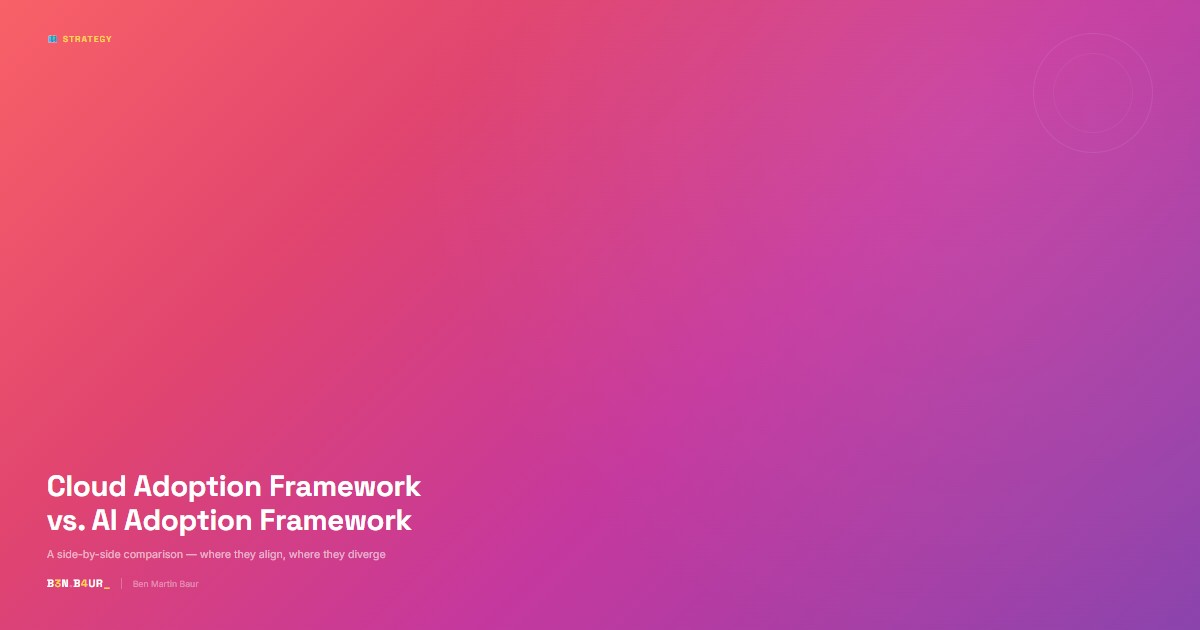
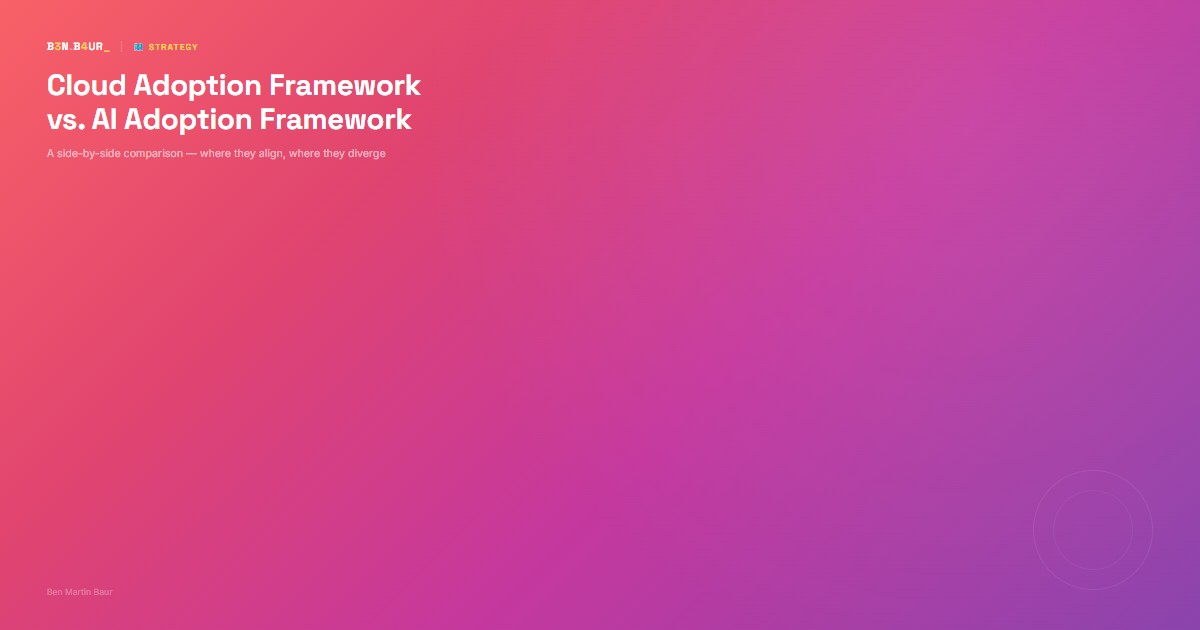
updated featured pictures.

diff --git a/content/projects/chief-of-staff-agents/featured-images.md b/content/projects/chief-of-staff-agents/featured-images.md
@@ -31,22 +31,27 @@ Every post on B3N.B4UR_ gets a branded featured image at **1200×630px** (standa
 
 ```
 ┌─────────────────────────────────────────────┐
-│ 🏗 BUILD (pillar badge, top-left)          │
-│                                             │
-│                         (decorative element │
-│                          top-right, subtle) │
-│                                             │
+│ B3N.B4UR_ | 🏗 BUILD (logo + badge, top)  │
 │                                             │
 │ Post Title                                  │
 │ Line Two If Needed                          │
 │ Subtitle in smaller text, lower opacity     │
-│ B3N.B4UR_ | Ben Martin Baur                │
+│                                             │
+│                                             │
+│                         (decorative element │
+│                          bottom-right)      │
+│                                             │
+│ Ben Martin Baur (bottom-left, subtle)       │
 └─────────────────────────────────────────────┘
 ```
 
-- **Title**: Space Grotesk, 44–52pt bold, white, max 2 lines
-- **Subtitle**: Inter, 16px, white at 45–70% opacity
-- **Logo + name**: Bottom-left, separated by a 1px divider line
+**IMPORTANT: All text content must be in the TOP portion of the image.** The Hugo Stack theme crops featured images to show only the top ~40% as card thumbnails. Title, subtitle, logo, and pillar badge must all be above the midline.
+
+- **Logo + pillar badge**: Top-left, first element, flex row with 1px divider
+- **Title**: Space Grotesk, 44–52pt bold, white, max 2 lines, directly below logo
+- **Subtitle**: Inter, 16px, white at 45–70% opacity, below title
+- **Attribution**: "Ben Martin Baur" bottom-left, 13px, very low opacity (visible on full image only)
+- **Decorative elements**: Bottom-right (visible on full image, won't clutter the card crop)
 - **Padding**: 60px vertical, 70px horizontal
 - **Content area**: max-width 700–750px (left-aligned)
 
@@ -54,9 +59,9 @@ Every post on B3N.B4UR_ gets a branded featured image at **1200×630px** (standa
 
 | Pillar | Decoration |
 |--------|------------|
-| **Build** | Subtle grid overlay (40px squares, ~4% opacity blue lines). Faint terminal commands top-right in JetBrains Mono. `> ssh build@b3n.b4ur_` |
-| **Strategy** | Subtle concentric circles top-right (2px white border, ~5-8% opacity). Radial light bloom at 80% 20% |
-| **Real** | Soft `✦` symbol top-right at ~8% opacity. Radial light bloom at 75% 25% |
+| **Build** | Subtle grid overlay (40px squares, ~4% opacity blue lines). Faint terminal commands **bottom-right** in JetBrains Mono. |
+| **Strategy** | Subtle concentric circles **bottom-right** (2px white border, ~5-8% opacity). Radial light bloom at 80% 20% |
+| **Real** | Soft `✦` symbol **bottom-right** at ~6% opacity. Radial light bloom at 75% 25% |
 
 ---
 
@@ -74,23 +79,23 @@ Create a branded featured image for a blog post using the B3N.B4UR_ visual ident
 
 **Specifications:**
 - Dimensions: 1200×630px
+- CRITICAL: All text (logo, badge, title, subtitle) must be in the TOP HALF of the image. The Hugo Stack theme crops to show only the top ~40% as card thumbnails.
 - Background: Use the pillar gradient:
   - Build: linear-gradient(135deg, #0C1824 0%, #12293D 30%, #1E3A52 60%, #2A4B6A 100%) with subtle 40px grid overlay at 4% opacity
-  - Strategy: linear-gradient(135deg, #F96167 0%, #E04470 30%, #C5389E 60%, #8B44AD 100%) with subtle concentric circles top-right
+  - Strategy: linear-gradient(135deg, #F96167 0%, #E04470 30%, #C5389E 60%, #8B44AD 100%) with subtle concentric circles bottom-right
   - Real: linear-gradient(135deg, #89B4E8 0%, #A8A0E0 30%, #D4A0D0 60%, #E8C0D4 100%) with soft radial light bloom
-- Pillar badge: Top-left, emoji + pillar name, 13px uppercase, letter-spacing .12em
-  - Build colour: #64B5F6
-  - Strategy colour: #FFD54F
-  - Real colour: rgba(255,255,255,.85)
-- Title: Space Grotesk Bold, 44-52px, white, bottom-left, max 2 lines, line-height 1.15
-- Subtitle: Inter 16px, white at 45-70% opacity depending on pillar, below title
-- Logo: "B3N.B4UR_" in Space Grotesk Bold 16px, white, letter-spacing .06em
+- Logo + Pillar badge: TOP-LEFT, first row. Logo "B3N.B4UR_" then 1px divider then pillar badge. 
+  - Logo: Space Grotesk Bold 16px, white, letter-spacing .06em
   - Numbers 3 and 4 in accent colour (#F96167 for Build/Real, #FFD54F for Strategy)
   - Underscore in same accent colour
-- Divider: 1px white line at 15-25% opacity between logo and name
-- Attribution: "Ben Martin Baur" in Inter 13px, white at 30-50% opacity
+  - Pillar badge: 13px uppercase, letter-spacing .12em
+  - Build colour: #64B5F6 | Strategy colour: #FFD54F | Real colour: rgba(255,255,255,.85)
+- Title: Space Grotesk Bold, 44-52px, white, TOP-LEFT below logo, max 2 lines, line-height 1.15
+- Subtitle: Inter 16px, white at 45-70% opacity depending on pillar, below title
+- Attribution: "Ben Martin Baur" in Inter 13px, white at 25-40% opacity, BOTTOM-LEFT
+- Decorative elements: BOTTOM-RIGHT only (won't interfere with card crop)
 - Padding: 60px top/bottom, 70px left/right
-- Content max-width: 750px, aligned bottom-left
+- Content max-width: 750px, aligned top-left
 
 The background template images (without text) are available at:
 - assets/img/featured_build_dark.jpg
